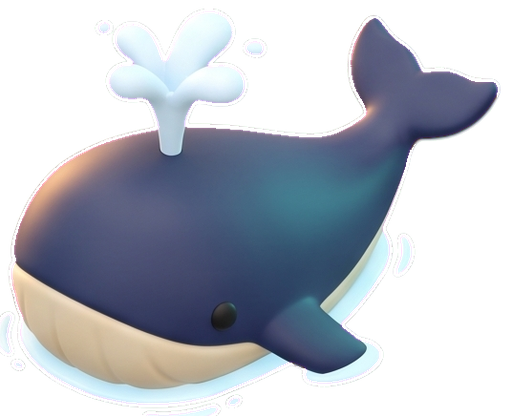
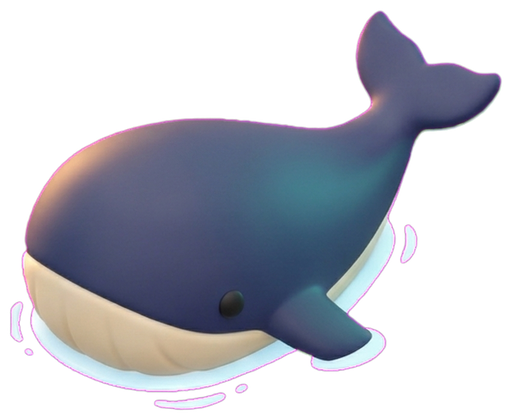
A living whale: puppet parts, an animated spout and dives
The whale's spout was painted into its picture, so a Gemini edit removed
it and the spout is now drawn in code: droplets burst up from the
blowhole, fan out, fall back and fade, with a puff of white mist.

The whale is a cut-out puppet sliced from that picture (body, tail and
flipper on one canvas, pivots in branding/map/cut/whale-pivots.json), with
the tail joint feathered and the flipper's spot filled in so no seam
shows. The tail beats, the flipper paddles and the body rocks. Its cycle:
swim at the surface and blow twice, tip nose-down with the fluke raised
and dive with a splash ring, glide under water as a faint shadow, then
surface with a splash and a small blow.

Changed region(s): [[0.0, 0.4375, 0.8125, 1.0], [0.0938, 0.0312, 1.0, 0.4375], [0.1875, 0.0625, 0.2188, 0.0938]]

diff --git a/ios/Turbulence/Rendering/MapLife.swift b/ios/Turbulence/Rendering/MapLife.swift
@@ -38,12 +38,13 @@ final class MapLifeLayer: SKNode {
 
     private var actors: [Actor] = []
     private var time: Double = 0
+    private var stillLife = false
 
     /// Width in world units for each piece (buildings are about 40 wide).
     static let widths: [String: CGFloat] = [
         "CarCoral": 26, "CarTeal": 26, "Van": 28, "Bus": 36, "BaggageTractor": 36, "FuelTruck": 32, "PushbackTug": 24,
         "PersonCoral": 11, "PersonTeal": 11, "PersonSuitcase": 12, "Attendant": 11, "Gull": 20,
-        "Rowboat": 26, "Sailboat": 30, "FishingBoat": 36, "Speedboat": 30, "Ferry": 56, "Whale": 60, "Dolphin": 30, "Buoy": 14,
+        "Rowboat": 26, "Sailboat": 30, "FishingBoat": 36, "Speedboat": 30, "Ferry": 56, "Whale": 66, "Dolphin": 30, "Buoy": 14,
         "ToyPlane": 40,
     ]
 
@@ -62,6 +63,8 @@ final class MapLifeLayer: SKNode {
                airports: [(at: CGPoint, style: MapLayout.Airport.Style, isNext: Bool)], reduceMotion: Bool) {
         removeAllChildren()
         actors.removeAll()
+        whaleTail.removeAll()
+        stillLife = reduceMotion
         var seed = 0
         for region in life {
             for entry in region.entries {
@@ -96,7 +99,14 @@ final class MapLifeLayer: SKNode {
     }
 
     private func addActor(_ name: String, kind: MapLayout.Life.Kind, path: [CGPoint], loop: Bool, offset: CGFloat, seed: inout Int) {
-        let (node, w) = sprite(name)
+        var (node, w) = sprite(name)
+        if name == "Whale" {                            // a puppet in a holder, so it can dive and blow while it travels
+            let (puppet, width) = whalePuppet()
+            w = width
+            node = SKSpriteNode(color: .clear, size: .zero)
+            node.addChild(puppet)
+            if !stillLife { runWhaleCycle(puppet, in: node, width: w) }
+        }
         var lengths: [CGFloat] = [0]
         let pts = loop && path.count > 2 ? path + [path[0]] : path
         for i in 1..<max(1, pts.count) { lengths.append(lengths[i - 1] + hypot(pts[i].x - pts[i - 1].x, pts[i].y - pts[i - 1].y)) }
@@ -108,6 +118,136 @@ final class MapLifeLayer: SKNode {
         node.position = pts.first ?? .zero
         addChild(node)
         actors.append(actor)
+    }
+
+    // MARK: Whale
+
+    private var whaleTail: [ObjectIdentifier: SKSpriteNode] = [:]
+
+    /// The whale as a cut-out puppet: body, tail and flipper share one 512 × 420 canvas (branding/map/cut/piece-whale-*),
+    /// and each part turns around its own joint. The tail beats, the flipper paddles and the body rocks.
+    private func whalePuppet() -> (SKSpriteNode, CGFloat) {
+        let w = Self.widths["Whale"] ?? 66
+        let canvas = CGSize(width: 512, height: 420)
+        let size = CGSize(width: w, height: w * canvas.height / canvas.width)
+        let puppet = SKSpriteNode(color: .clear, size: size)
+        func part(_ name: String, pivot: CGPoint?, z: CGFloat) -> SKSpriteNode {
+            let n = SKSpriteNode(imageNamed: "Map/\(name)")
+            n.size = size
+            if let pivot {                              // turn around the joint: anchor there, then put the joint back in place
+                n.anchorPoint = CGPoint(x: pivot.x / canvas.width, y: 1 - pivot.y / canvas.height)
+                n.position = CGPoint(x: (n.anchorPoint.x - 0.5) * size.width, y: (n.anchorPoint.y - 0.5) * size.height)
+            }
+            n.zPosition = z
+            puppet.addChild(n)
+            return n
+        }
+        let body = part("WhaleBody", pivot: nil, z: 0)
+        let flipper = part("WhaleFlipper", pivot: CGPoint(x: 300, y: 305), z: 1)
+        let tail = part("WhaleTail", pivot: CGPoint(x: 368, y: 147), z: 1)
+        whaleTail[ObjectIdentifier(puppet)] = tail
+        guard !stillLife else { return (puppet, w) }
+        let beat = SKAction.sequence([.rotate(toAngle: 0.16, duration: 0.75), .rotate(toAngle: -0.12, duration: 0.75)])
+        beat.timingMode = .easeInEaseOut
+        tail.run(.repeatForever(beat), withKey: "beat")
+        let paddle = SKAction.sequence([.rotate(toAngle: -0.2, duration: 0.9), .rotate(toAngle: 0.12, duration: 0.9)])
+        paddle.timingMode = .easeInEaseOut
+        flipper.run(.repeatForever(paddle))
+        let rock = SKAction.sequence([.group([.rotate(toAngle: 0.03, duration: 1.5), .scaleY(to: 1.025, duration: 1.5)]),
+                                      .group([.rotate(toAngle: -0.03, duration: 1.5), .scaleY(to: 1, duration: 1.5)])])
+        rock.timingMode = .easeInEaseOut
+        body.run(.repeatForever(rock))
+        return (puppet, w)
+    }
+
+    /// The tail's own move for a dive (fluke up, held) and for surfacing (back to its beat).
+    private func tailDive(_ puppet: SKNode) -> SKAction {
+        .run { [weak self] in
+            guard let tail = self?.whaleTail[ObjectIdentifier(puppet)] else { return }
+            tail.removeAction(forKey: "beat")
+            tail.run(.rotate(toAngle: 0.34, duration: 0.6, shortestUnitArc: true))
+        }
+    }
+
+    private func tailResume(_ puppet: SKNode) -> SKAction {
+        .run { [weak self] in
+            guard let tail = self?.whaleTail[ObjectIdentifier(puppet)] else { return }
+            let beat = SKAction.sequence([.rotate(toAngle: 0.16, duration: 0.75), .rotate(toAngle: -0.12, duration: 0.75)])
+            beat.timingMode = .easeInEaseOut
+            tail.run(.sequence([.rotate(toAngle: 0, duration: 0.4), .repeatForever(beat)]), withKey: "beat")
+        }
+    }
+
+    /// Swims at the surface, blows, dives with a splash, glides under water as a faint shadow, then surfaces again.
+    private func runWhaleCycle(_ whale: SKSpriteNode, in holder: SKNode, width w: CGFloat) {
+        // the fluke rises as the body tips nose-down; dive tilt is kept moderate so the tail joint never opens
+        let h = whale.size.height
+        let blowhole = CGPoint(x: -0.2 * w, y: 0.2 * h)          // the piece faces left; the holder flips with the travel
+        let shadow = SKShapeNode(ellipseOf: CGSize(width: w * 0.8, height: h * 0.3))
+        shadow.fillColor = Palette.navy.withAlphaComponent(0.28); shadow.strokeColor = .clear
+        shadow.position = CGPoint(x: 0, y: -h * 0.18); shadow.alpha = 0; shadow.zPosition = -1
+        holder.addChild(shadow)
+
+        let blow = SKAction.run { [weak self] in self?.spout(from: blowhole, in: holder) }
+        let surfaceSwim = SKAction.sequence([.wait(forDuration: 1.6), blow, .wait(forDuration: 0.9), blow, .wait(forDuration: 3.2)])
+        let dive = SKAction.group([
+            tailDive(whale),
+            .run { [weak self] in self?.splash(at: CGPoint(x: 0, y: -h * 0.2), in: holder, width: w) },
+            .rotate(toAngle: 0.38, duration: 1.1, shortestUnitArc: true),
+            .moveTo(y: -h * 0.25, duration: 1.1),
+            .scale(to: 0.85, duration: 1.1),
+            .sequence([.wait(forDuration: 0.35), .fadeOut(withDuration: 0.75)]),
+        ])
+        let underwater = SKAction.sequence([
+            .run { shadow.run(.fadeAlpha(to: 1, duration: 0.6)) },
+            .wait(forDuration: Double.random(in: 4.5...7)),
+            .run { shadow.run(.fadeOut(withDuration: 0.4)) },
+        ])
+        let surface = SKAction.group([
+            tailResume(whale),
+            .run { [weak self] in self?.splash(at: CGPoint(x: 0, y: -h * 0.2), in: holder, width: w)
+                                  self?.spout(from: blowhole, in: holder, small: true) },
+            .sequence([.rotate(toAngle: -0.25, duration: 0), .rotate(toAngle: 0, duration: 1.0, shortestUnitArc: true)]),
+            .moveTo(y: 0, duration: 0.9),
+            .scale(to: 1, duration: 0.9),
+            .fadeIn(withDuration: 0.5),
+        ])
+        whale.run(.sequence([.wait(forDuration: Double.random(in: 0...3)), .repeatForever(.sequence([surfaceSwim, dive, underwater, surface]))]))
+    }
+
+    /// A puff of droplets from the blowhole: they burst up, fan out, fall back and fade, with a little mist.
+    private func spout(from p: CGPoint, in parent: SKNode, small: Bool = false) {
+        let count = small ? 6 : 14
+        for i in 0..<count {
+            let drop = SKShapeNode(circleOfRadius: CGFloat.random(in: 1.8...3.4))
+            drop.fillColor = UIColor.white.withAlphaComponent(0.95); drop.strokeColor = .clear
+            drop.position = p; drop.zPosition = 2; drop.setScale(0.6)
+            parent.addChild(drop)
+            let rise = CGFloat.random(in: small ? 10...16 : 24...38), spread = CGFloat.random(in: -11...11)
+            let up = SKAction.moveBy(x: spread * 0.4, y: rise, duration: 0.42); up.timingMode = .easeOut
+            let down = SKAction.moveBy(x: spread, y: -rise * 0.7, duration: 0.5); down.timingMode = .easeIn
+            drop.run(.sequence([.wait(forDuration: Double(i) * 0.025), .group([.sequence([up, down]), .scale(to: 1.4, duration: 0.92),
+                                .sequence([.wait(forDuration: 0.5), .fadeOut(withDuration: 0.42)])]), .removeFromParent()]))
+        }
+        guard !small else { return }
+        let mist = SKSpriteNode(imageNamed: "Map/Cloud5")
+        mist.size = CGSize(width: 16, height: 10); mist.alpha = 0.6; mist.zPosition = 2
+        mist.color = .white; mist.colorBlendFactor = 0.7                // spray is white, not cloud-shaded grey
+        mist.position = CGPoint(x: p.x, y: p.y + 22)
+        parent.addChild(mist)
+        mist.run(.sequence([.group([.scale(to: 2.2, duration: 1.2), .moveBy(x: 0, y: 8, duration: 1.2), .fadeOut(withDuration: 1.2)]), .removeFromParent()]))
+    }
+
+    /// Two widening rings of foam where the whale breaks the surface.
+    private func splash(at p: CGPoint, in parent: SKNode, width w: CGFloat) {
+        for (i, delay) in [0.0, 0.25].enumerated() {
+            let ring = SKShapeNode(ellipseOf: CGSize(width: w * 0.55, height: w * 0.18))
+            ring.strokeColor = UIColor.white.withAlphaComponent(0.85); ring.lineWidth = i == 0 ? 2 : 1.4; ring.fillColor = .clear
+            ring.position = p; ring.zPosition = -0.5; ring.alpha = 0
+            parent.addChild(ring)
+            ring.run(.sequence([.wait(forDuration: delay), .fadeIn(withDuration: 0.05),
+                                .group([.scale(to: 2.1, duration: 1.1), .fadeOut(withDuration: 1.1)]), .removeFromParent()]))
+        }
     }
 
     private func addSmoke(at p: CGPoint, still: Bool) {
@@ -182,7 +322,7 @@ final class MapLifeLayer: SKNode {
             case .walk: if a.pause <= 0 { pos.y += abs(sin(t * 6)) * 2 }      // a little hop while walking, still when standing
             case .moored, .water:
                 pos.y += sin(t * 1.6) * 1.2
-                a.node.zRotation = CGFloat(sin(t * 1.3) * 0.05)
+                if a.node.children.isEmpty { a.node.zRotation = CGFloat(sin(t * 1.3) * 0.05) }   // the whale rolls on its own
             case .air: a.node.yScale = 0.8 + 0.2 * abs(sin(t * 6))
             default: break
             }
